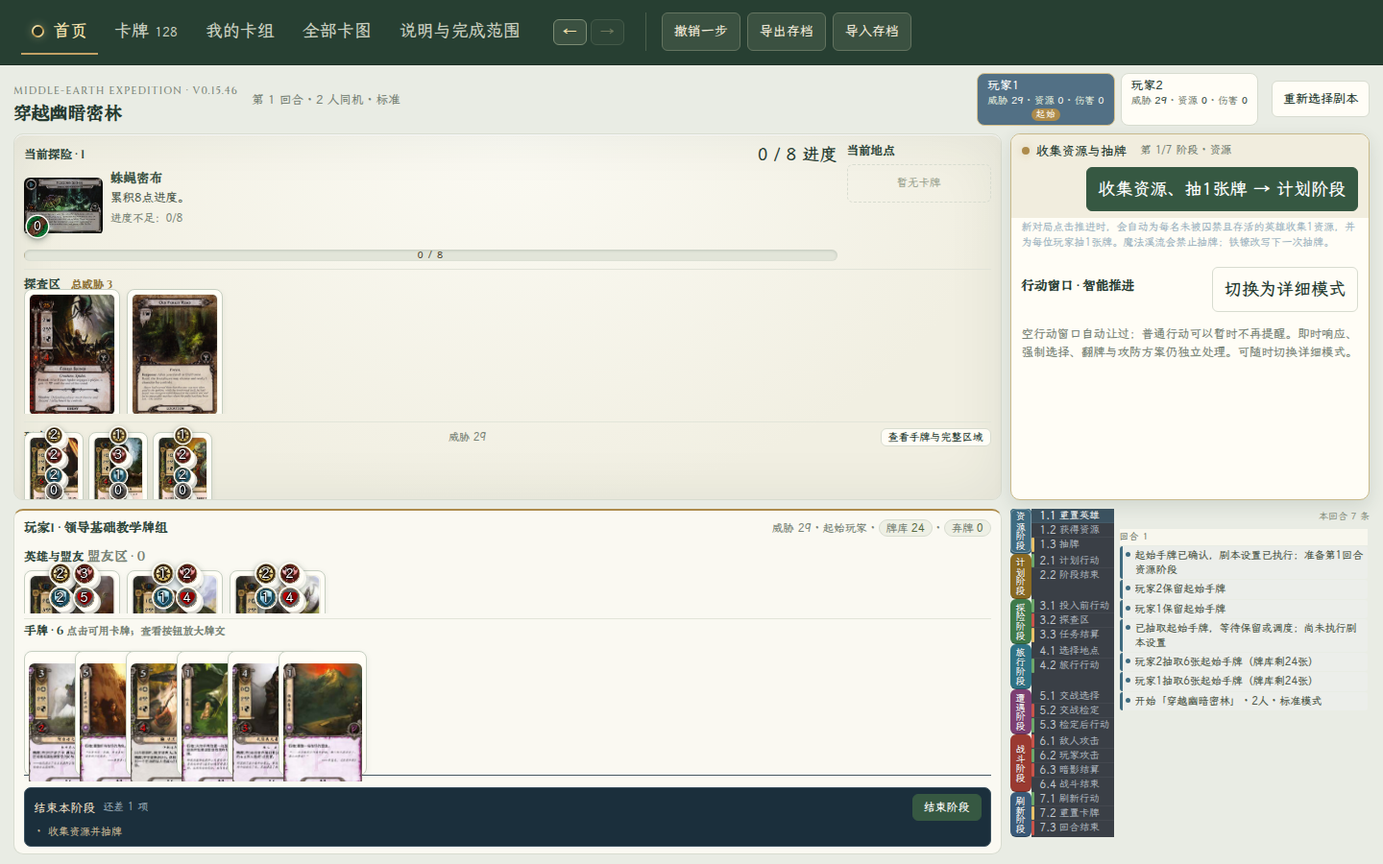
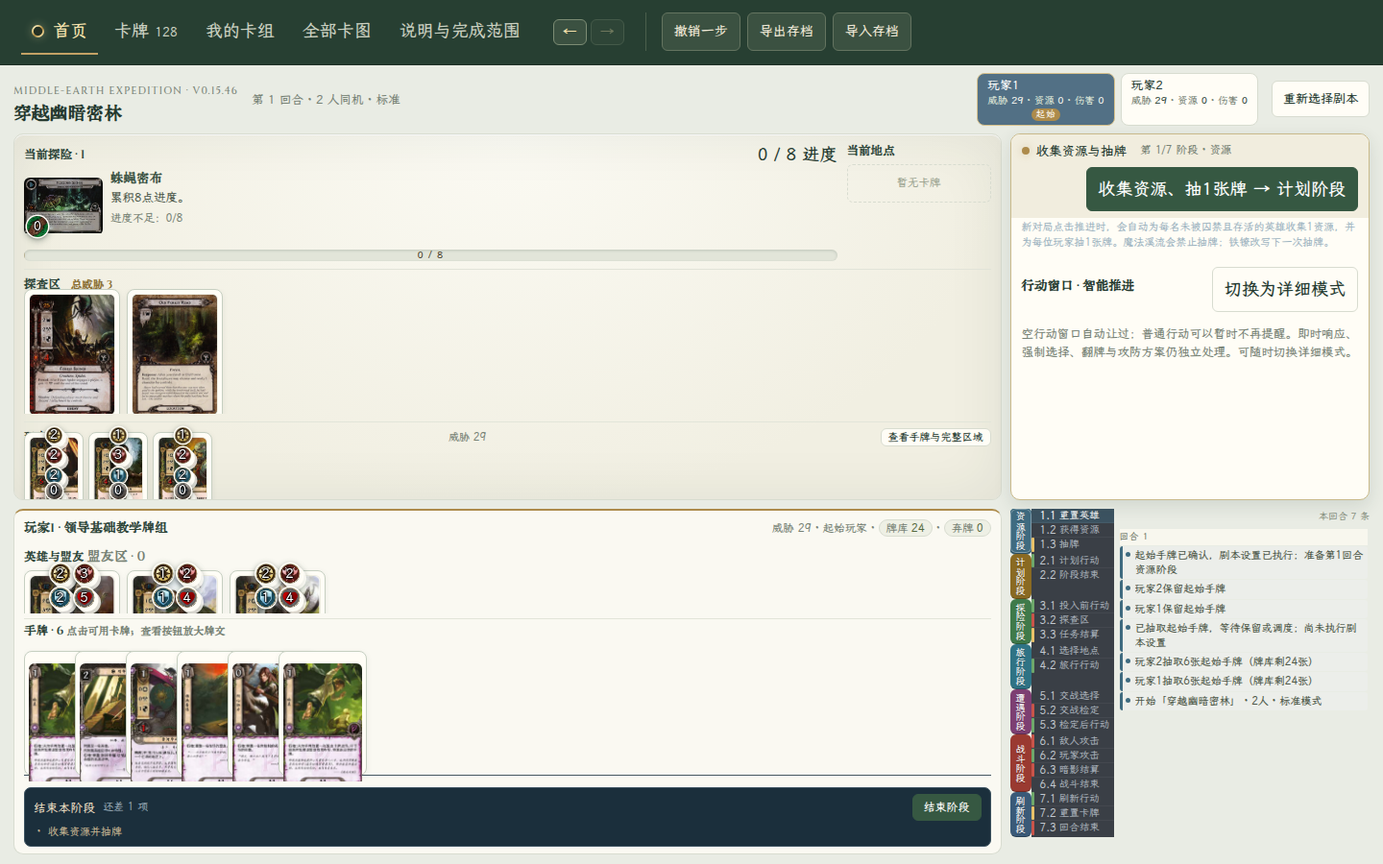
v0.15.47: 开局设置面板从右栏搬到角色卡下方，按深色卡区重绘并让出高度

Changed region(s): [[0.0, 0.7467, 0.2812, 0.9022]]

diff --git a/index.html b/index.html
@@ -1260,13 +1260,42 @@ body:has(.desktop-table) .player-tabs button{min-height:40px;padding:4px 10px;ga
 .mat-phase{margin-top:6px;padding-top:6px;border-top:1px solid #455762;
  /* v0.15.46：角色卡区只有 360px（1366×768 下 336px），面板不许把「结束阶段」顶出视口。
     上限 96px（约 2 行面板内容）；min-height 保证按钮那一行不被 flex 压扁——
-    压扁后 .player-mat 的 overflow:hidden 会把按钮下半截直接裁掉。 */
+    压扁后 .player-mat 的 overflow:hidden 会把按钮下半截直接裁掉。
+    v0.15.47：开局阶段（手牌确认）没有结束阶段按钮，内容必须完整可见，故解除三项限制。 */
  flex:0 0 auto;max-height:96px;overflow:auto;scrollbar-width:thin;
  min-height:76px;display:flex;flex-direction:column;gap:2px}
+.mat-phase:has(>.opening-panel){max-height:none;overflow:visible;min-height:0}
+/* 开局阶段把英雄区与手牌的高度让给「起始手牌」面板：此时桌面上还没有可查看的角色，
+   而确认手牌是唯一要事。手牌区只留一条可横向滚动的窄带，面板完整露出。
+   注意手牌行原本是 flex:0 0 auto + min-height:104px，不在这里显式改 flex 与 min-height
+   就仍会撑满 170px，把面板顶出角色区。 */
+.player-mat:has(.mat-phase>.opening-panel)>.own-characters{flex:0 0 auto;min-height:0;max-height:0;overflow:hidden;padding:0}
+.player-mat:has(.mat-phase>.opening-panel)>.hand-zone{flex:0 0 auto;min-height:0;padding-top:0}
+.player-mat:has(.mat-phase>.opening-panel)>.hand-zone>.table-card-row{flex:0 0 62px;min-height:0;padding-top:6px;padding-bottom:2px}
+.player-mat:has(.mat-phase>.opening-panel) .hand-card{width:56px;flex:0 0 56px}
+.player-mat:has(.mat-phase>.opening-panel) .hand-card+.hand-card{margin-left:-34px}
+.player-mat:has(.mat-phase>.opening-panel) .hand-card .card-face img{height:100%;object-fit:cover}
 .mat-phase>.panel{flex:0 1 auto;min-height:0;overflow:auto;
  border:0;background:transparent;padding:0;margin:0}
 .mat-phase>.panel>h2,.mat-phase .panel-title h2{font-size:13px;color:#e6dcc2;margin:0 0 3px}
 .mat-phase p{font-size:12px;color:#cfdadf;margin:3px 0;line-height:1.45}
+/* v0.15.47：开局步骤（opening-panel）从右栏搬到角色卡下方。它本身是浅色纸感底，
+   直接放进来会在深色卡区里突兀、且浅色文字不可读，所以按卡区的深底重绘一遍。
+   开局面板没有「结束阶段」按钮，不受 96px 上限约束——那里要放得下每位玩家一行。 */
+.mat-phase>.opening-panel{
+ background:#2b3d33;border:1px solid #c6ac74;border-radius:7px;padding:7px 9px;
+ max-height:none;overflow:visible}
+.mat-phase>.opening-panel>p.small{font-size:11.5px;color:#b9c9bd;margin:2px 0 6px}
+.mat-phase>.opening-panel .badge{background:#3a3220;border-color:#c6ac74;color:#e8dcc0}
+.mat-phase>.opening-panel .opening-choices{
+ grid-template-columns:repeat(auto-fit,minmax(220px,1fr));gap:6px;margin:6px 0 8px}
+.mat-phase>.opening-panel .opening-choices>div{
+ border:1px solid #4a5e6c;background:#1d2d38;border-radius:5px;padding:5px 8px;gap:6px}
+.mat-phase>.opening-panel .opening-choices>div>b{font-size:12px;color:#e8dcc0}
+.mat-phase>.opening-panel .opening-choices>div>span{font-size:11px;color:#a9b8c2}
+.mat-phase>.opening-panel .opening-choices button{font-size:11.5px;padding:3px 9px;min-height:24px}
+.mat-phase>.opening-panel .actions{margin-top:0}
+.mat-phase>.opening-panel .actions button{font-size:12px;min-height:28px}
 .mat-phase .small.muted{color:#a9b8c2}
 .mat-phase .actions{margin-top:4px;display:flex;flex-wrap:wrap;gap:6px}
 .mat-phase .notice{background:#2b3d33;border-left-color:#c6ac74;color:#dfe8dc;padding:4px 8px;font-size:11.5px}
@@ -9790,7 +9819,7 @@ const WindowUI=(()=>{
 </script><script src="phase-log.js"></script><script>
 /* Tabletop view: UI drafts never pay, exhaust, reveal, or bypass phase validation. */
 /* 界面版本徽标唯一来源：须与 CHANGELOG.md 最新条目标题一致（planning-dom-tests 有校验）。 */
-const APP_VERSION='v0.15.46';
+const APP_VERSION='v0.15.47';
 const DesktopUI=(()=>{
  const E=ScenarioEngine,R=E.planning,Q=E.questing,C=E.combat,esc=x=>String(x??'').replace(/[&<>"']/g,c=>({'&':'&amp;','<':'&lt;','>':'&gt;','"':'&quot;',"'":'&#39;'}[c]));
  let combatDraft={key:'',target:null,ids:[]},draftState=null;
@@ -9957,7 +9986,7 @@ const DesktopUI=(()=>{
   /* 玩家状态条：BGA 式汇总每位玩家的威胁／资源／伤害，点按即切换查看（复用 view 动作）。 */
  const tabStats=o=>{const res=o.heroStates?o.heroStates.reduce((n,h)=>n+h.resources,0):0,dmg=o.heroStates?o.heroStates.reduce((n,h)=>n+(h.damage||0),0):0;
   return `<span class="tab-stats">威胁 <b>${o.threat}</b> · 资源 <b>${res}</b> · 伤害 <b>${dmg}</b></span>${s.first===o.id?'<span class="first-mark">起始</span>':''}${o.eliminated?'<span class="elim-mark">淘汰</span>':''}`;};
- return `<div class="desktop-table"><div class="expedition-title"><div><span class="eyebrow">MIDDLE-EARTH EXPEDITION · ${APP_VERSION}</span><h1>${esc(s.session&&s.session.name||sc.name)}</h1></div><span>${s.session&&s.session.name?esc(sc.name)+' · ':''}第 ${s.round} 回合 · ${s.players.length} 人同机${s.session&&s.session.difficulty?' · '+({easy:'简单',normal:'标准',nightmare:'噩梦'}[s.session.difficulty]||''):''}</span><div class="player-tabs" role="group" aria-label="查看玩家">${s.players.map(o=>`<button data-action="desktop" data-desktop="view" data-player="${o.id}" class="${o.id===p.id?'active':''}" aria-pressed="${o.id===p.id}"><b class="tab-name">${esc(o.name)}</b>${tabStats(o)}</button>`).join('')}</div>${b('重新选择剧本','reset')}</div><div class="tabletop-layout"><div class="tabletop-main"><div class="operation-dock" role="region" aria-label="当前操作"><div class="operation-title"><span class="operation-indicator"></span><strong>${esc(prompt(s,m))}</strong><div class="operation-chips">${status(s)?.chips||''}</div><span class="small">第 ${s.phase+1}/7 阶段 · ${E.phases[s.phase]}</span>${next(s)}</div><p class="small phase-hint">${esc(phaseHint())}</p><div class="operation-content">${scorePanel(s)}${PlayerUI.openingPanel(s)}${setupPanel(s)}${s.pending.length?pending():''}${phasePanel(s,p.id,m)}${WindowUI.panel(s)}</div></div><div class="public-table"><div class="quest-location-row"><section class="table-zone quest-zone"><div class="zone-heading"><h2>当前探险 · ${esc(q.stage)}</h2><strong>${q.points?s.progress+' / '+q.points+' 进度':'特殊胜利条件'}</strong></div><div class="quest-display"><div class="quest-art-wrap">${ImageLibrary.art('enc-'+q.id,'',s.setupPending?'A':'B')}${q.points?`<div class="card-tokens quest-tokens" aria-hidden="true">${tk('progress',s.progress)}</div>`:''}</div><div><h3>${esc(q.name)}</h3><p>${esc(s.setupPending?q.front:q.back)}</p><span class="small muted">${esc(E.gate(s)||'满足条件后由规则自动推进')}</span></div></div>${q.points?`<div class="quest-progress" role="progressbar" aria-label="探险进度" aria-valuemin="0" aria-valuemax="${q.points}" aria-valuenow="${s.progress}"><div class="quest-progress-fill" style="width:${Math.min(100,Math.round(s.progress/q.points*100))}%"></div><span class="quest-progress-label">${s.progress} / ${q.points}</span></div>`:''}</section>${row('当前地点',s.active?encounter(s,s.active,'active',m):'','active-zone')}</div>${row('探查区 <span class="threat-total">总威胁 '+E.threat(s)+'</span>',s.staging.map(c=>encounter(s,c,'staging',m)).join(''))}${s.objectives.length?row('剧本目标',s.objectives.map(c=>encounter(s,c,'objective',m)).join('')):''}${others}</div><section class="player-mat"><div class="zone-heading"><h2>${esc(p.name)} · ${esc(p.registeredDeck?.name||'玩家区域')}</h2><span class="own-piles">威胁 ${p.threat}${s.first===p.id?' · 起始玩家':''} · <span class="pile-chip">牌库 <b>${p.playerDeck.length}</b></span> · <span class="pile-chip">弃牌 <b>${p.playerDiscard.length}</b></span></span></div>${row('英雄与盟友 <span class="small muted">盟友区 · '+p.allies.length+'</span>',playerChars(s,p).map(c=>character(s,c,m)).join(''),'own-characters')}${p.attachments.length?row('附属',p.attachments.map(c=>{const meta=R.data(s,c),host=R.find(s,c.target),legal=R.abilitySpec(s,p.id,c.uid).legal;return `<article class="table-card"><button class="card-face" data-action="planning" data-plan="ability" data-player="${p.id}" data-uid="${c.uid}" ${legal?'':'disabled'}>${art(c.code)}</button><div class="table-card-caption"><b>${esc(meta.nameZh)}</b><span>附于 ${esc(host?.meta.nameZh||host?.meta.name||'目标已离场')}</span></div>${inspect(c.code)}</article>`;}).join('')):''}${p.engaged.length?row('交战区',p.engaged.map(c=>encounter(s,c,'engaged',m)).join('')):''}${row('手牌 · '+p.hand.length+' <span class="small muted">点击可用卡牌；查看按钮放大牌文</span>',hand,'hand-zone')}<p class="small muted">同机模式可切换查看每位玩家手牌；不提供联网私密手牌。</p><div class="mat-phase">${s.phase===1?PlanningUI.panel(s,p.id):s.phase===2?QuestUI.panel(s,p.id):s.phase===3?TravelUI.panel(s,p.id):s.phase===4?EncounterUI.panel(s,p.id):s.phase===5?CombatUI.panel(s,p.id):s.phase===6?RefreshUI.panel(s,p.id):''}${phaseDoor(s)}</div></section></div><aside class="tabletop-rail">${PhaseLog.rail(s,railOpen())}<section class="table-log" aria-label="远征日志">${PhaseLog.panel(s,logMarks(),logScope(),railOpen(),false)}</section></aside></div></div>`;
+ return `<div class="desktop-table"><div class="expedition-title"><div><span class="eyebrow">MIDDLE-EARTH EXPEDITION · ${APP_VERSION}</span><h1>${esc(s.session&&s.session.name||sc.name)}</h1></div><span>${s.session&&s.session.name?esc(sc.name)+' · ':''}第 ${s.round} 回合 · ${s.players.length} 人同机${s.session&&s.session.difficulty?' · '+({easy:'简单',normal:'标准',nightmare:'噩梦'}[s.session.difficulty]||''):''}</span><div class="player-tabs" role="group" aria-label="查看玩家">${s.players.map(o=>`<button data-action="desktop" data-desktop="view" data-player="${o.id}" class="${o.id===p.id?'active':''}" aria-pressed="${o.id===p.id}"><b class="tab-name">${esc(o.name)}</b>${tabStats(o)}</button>`).join('')}</div>${b('重新选择剧本','reset')}</div><div class="tabletop-layout"><div class="tabletop-main"><div class="operation-dock" role="region" aria-label="当前操作"><div class="operation-title"><span class="operation-indicator"></span><strong>${esc(prompt(s,m))}</strong><div class="operation-chips">${status(s)?.chips||''}</div><span class="small">第 ${s.phase+1}/7 阶段 · ${E.phases[s.phase]}</span>${next(s)}</div><p class="small phase-hint">${esc(phaseHint())}</p><div class="operation-content">${scorePanel(s)}${s.pending.length?pending():''}${phasePanel(s,p.id,m)}${WindowUI.panel(s)}</div></div><div class="public-table"><div class="quest-location-row"><section class="table-zone quest-zone"><div class="zone-heading"><h2>当前探险 · ${esc(q.stage)}</h2><strong>${q.points?s.progress+' / '+q.points+' 进度':'特殊胜利条件'}</strong></div><div class="quest-display"><div class="quest-art-wrap">${ImageLibrary.art('enc-'+q.id,'',s.setupPending?'A':'B')}${q.points?`<div class="card-tokens quest-tokens" aria-hidden="true">${tk('progress',s.progress)}</div>`:''}</div><div><h3>${esc(q.name)}</h3><p>${esc(s.setupPending?q.front:q.back)}</p><span class="small muted">${esc(E.gate(s)||'满足条件后由规则自动推进')}</span></div></div>${q.points?`<div class="quest-progress" role="progressbar" aria-label="探险进度" aria-valuemin="0" aria-valuemax="${q.points}" aria-valuenow="${s.progress}"><div class="quest-progress-fill" style="width:${Math.min(100,Math.round(s.progress/q.points*100))}%"></div><span class="quest-progress-label">${s.progress} / ${q.points}</span></div>`:''}</section>${row('当前地点',s.active?encounter(s,s.active,'active',m):'','active-zone')}</div>${row('探查区 <span class="threat-total">总威胁 '+E.threat(s)+'</span>',s.staging.map(c=>encounter(s,c,'staging',m)).join(''))}${s.objectives.length?row('剧本目标',s.objectives.map(c=>encounter(s,c,'objective',m)).join('')):''}${others}</div><section class="player-mat"><div class="zone-heading"><h2>${esc(p.name)} · ${esc(p.registeredDeck?.name||'玩家区域')}</h2><span class="own-piles">威胁 ${p.threat}${s.first===p.id?' · 起始玩家':''} · <span class="pile-chip">牌库 <b>${p.playerDeck.length}</b></span> · <span class="pile-chip">弃牌 <b>${p.playerDiscard.length}</b></span></span></div>${row('英雄与盟友 <span class="small muted">盟友区 · '+p.allies.length+'</span>',playerChars(s,p).map(c=>character(s,c,m)).join(''),'own-characters')}${p.attachments.length?row('附属',p.attachments.map(c=>{const meta=R.data(s,c),host=R.find(s,c.target),legal=R.abilitySpec(s,p.id,c.uid).legal;return `<article class="table-card"><button class="card-face" data-action="planning" data-plan="ability" data-player="${p.id}" data-uid="${c.uid}" ${legal?'':'disabled'}>${art(c.code)}</button><div class="table-card-caption"><b>${esc(meta.nameZh)}</b><span>附于 ${esc(host?.meta.nameZh||host?.meta.name||'目标已离场')}</span></div>${inspect(c.code)}</article>`;}).join('')):''}${p.engaged.length?row('交战区',p.engaged.map(c=>encounter(s,c,'engaged',m)).join('')):''}${row('手牌 · '+p.hand.length+' <span class="small muted">点击可用卡牌；查看按钮放大牌文</span>',hand,'hand-zone')}<p class="small muted">同机模式可切换查看每位玩家手牌；不提供联网私密手牌。</p><div class="mat-phase">${PlayerUI.openingPanel(s)}${setupPanel(s)}${s.phase===1?PlanningUI.panel(s,p.id):s.phase===2?QuestUI.panel(s,p.id):s.phase===3?TravelUI.panel(s,p.id):s.phase===4?EncounterUI.panel(s,p.id):s.phase===5?CombatUI.panel(s,p.id):s.phase===6?RefreshUI.panel(s,p.id):''}${phaseDoor(s)}</div></section></div><aside class="tabletop-rail">${PhaseLog.rail(s,railOpen())}<section class="table-log" aria-label="远征日志">${PhaseLog.panel(s,logMarks(),logScope(),railOpen(),false)}</section></aside></div></div>`;
  }
  function handle(el){const k=el.dataset.desktop,uid=+el.dataset.uid,pid=+el.dataset.player,m=mode(state,handView),d=draft(state,m);
   if(k==='view'){handView=pid;render();return;}if(k==='reset'){if(confirm('结束当前桌面并重新选择剧本？建议先导出存档。'))mutate(()=>state=null);return;}

diff --git a/desktop-ui.js b/desktop-ui.js
@@ -1,6 +1,6 @@
 /* Tabletop view: UI drafts never pay, exhaust, reveal, or bypass phase validation. */
 /* 界面版本徽标唯一来源：须与 CHANGELOG.md 最新条目标题一致（planning-dom-tests 有校验）。 */
-const APP_VERSION='v0.15.46';
+const APP_VERSION='v0.15.47';
 const DesktopUI=(()=>{
  const E=ScenarioEngine,R=E.planning,Q=E.questing,C=E.combat,esc=x=>String(x??'').replace(/[&<>"']/g,c=>({'&':'&amp;','<':'&lt;','>':'&gt;','"':'&quot;',"'":'&#39;'}[c]));
  let combatDraft={key:'',target:null,ids:[]},draftState=null;
@@ -167,7 +167,7 @@ const DesktopUI=(()=>{
   /* 玩家状态条：BGA 式汇总每位玩家的威胁／资源／伤害，点按即切换查看（复用 view 动作）。 */
  const tabStats=o=>{const res=o.heroStates?o.heroStates.reduce((n,h)=>n+h.resources,0):0,dmg=o.heroStates?o.heroStates.reduce((n,h)=>n+(h.damage||0),0):0;
   return `<span class="tab-stats">威胁 <b>${o.threat}</b> · 资源 <b>${res}</b> · 伤害 <b>${dmg}</b></span>${s.first===o.id?'<span class="first-mark">起始</span>':''}${o.eliminated?'<span class="elim-mark">淘汰</span>':''}`;};
- return `<div class="desktop-table"><div class="expedition-title"><div><span class="eyebrow">MIDDLE-EARTH EXPEDITION · ${APP_VERSION}</span><h1>${esc(s.session&&s.session.name||sc.name)}</h1></div><span>${s.session&&s.session.name?esc(sc.name)+' · ':''}第 ${s.round} 回合 · ${s.players.length} 人同机${s.session&&s.session.difficulty?' · '+({easy:'简单',normal:'标准',nightmare:'噩梦'}[s.session.difficulty]||''):''}</span><div class="player-tabs" role="group" aria-label="查看玩家">${s.players.map(o=>`<button data-action="desktop" data-desktop="view" data-player="${o.id}" class="${o.id===p.id?'active':''}" aria-pressed="${o.id===p.id}"><b class="tab-name">${esc(o.name)}</b>${tabStats(o)}</button>`).join('')}</div>${b('重新选择剧本','reset')}</div><div class="tabletop-layout"><div class="tabletop-main"><div class="operation-dock" role="region" aria-label="当前操作"><div class="operation-title"><span class="operation-indicator"></span><strong>${esc(prompt(s,m))}</strong><div class="operation-chips">${status(s)?.chips||''}</div><span class="small">第 ${s.phase+1}/7 阶段 · ${E.phases[s.phase]}</span>${next(s)}</div><p class="small phase-hint">${esc(phaseHint())}</p><div class="operation-content">${scorePanel(s)}${PlayerUI.openingPanel(s)}${setupPanel(s)}${s.pending.length?pending():''}${phasePanel(s,p.id,m)}${WindowUI.panel(s)}</div></div><div class="public-table"><div class="quest-location-row"><section class="table-zone quest-zone"><div class="zone-heading"><h2>当前探险 · ${esc(q.stage)}</h2><strong>${q.points?s.progress+' / '+q.points+' 进度':'特殊胜利条件'}</strong></div><div class="quest-display"><div class="quest-art-wrap">${ImageLibrary.art('enc-'+q.id,'',s.setupPending?'A':'B')}${q.points?`<div class="card-tokens quest-tokens" aria-hidden="true">${tk('progress',s.progress)}</div>`:''}</div><div><h3>${esc(q.name)}</h3><p>${esc(s.setupPending?q.front:q.back)}</p><span class="small muted">${esc(E.gate(s)||'满足条件后由规则自动推进')}</span></div></div>${q.points?`<div class="quest-progress" role="progressbar" aria-label="探险进度" aria-valuemin="0" aria-valuemax="${q.points}" aria-valuenow="${s.progress}"><div class="quest-progress-fill" style="width:${Math.min(100,Math.round(s.progress/q.points*100))}%"></div><span class="quest-progress-label">${s.progress} / ${q.points}</span></div>`:''}</section>${row('当前地点',s.active?encounter(s,s.active,'active',m):'','active-zone')}</div>${row('探查区 <span class="threat-total">总威胁 '+E.threat(s)+'</span>',s.staging.map(c=>encounter(s,c,'staging',m)).join(''))}${s.objectives.length?row('剧本目标',s.objectives.map(c=>encounter(s,c,'objective',m)).join('')):''}${others}</div><section class="player-mat"><div class="zone-heading"><h2>${esc(p.name)} · ${esc(p.registeredDeck?.name||'玩家区域')}</h2><span class="own-piles">威胁 ${p.threat}${s.first===p.id?' · 起始玩家':''} · <span class="pile-chip">牌库 <b>${p.playerDeck.length}</b></span> · <span class="pile-chip">弃牌 <b>${p.playerDiscard.length}</b></span></span></div>${row('英雄与盟友 <span class="small muted">盟友区 · '+p.allies.length+'</span>',playerChars(s,p).map(c=>character(s,c,m)).join(''),'own-characters')}${p.attachments.length?row('附属',p.attachments.map(c=>{const meta=R.data(s,c),host=R.find(s,c.target),legal=R.abilitySpec(s,p.id,c.uid).legal;return `<article class="table-card"><button class="card-face" data-action="planning" data-plan="ability" data-player="${p.id}" data-uid="${c.uid}" ${legal?'':'disabled'}>${art(c.code)}</button><div class="table-card-caption"><b>${esc(meta.nameZh)}</b><span>附于 ${esc(host?.meta.nameZh||host?.meta.name||'目标已离场')}</span></div>${inspect(c.code)}</article>`;}).join('')):''}${p.engaged.length?row('交战区',p.engaged.map(c=>encounter(s,c,'engaged',m)).join('')):''}${row('手牌 · '+p.hand.length+' <span class="small muted">点击可用卡牌；查看按钮放大牌文</span>',hand,'hand-zone')}<p class="small muted">同机模式可切换查看每位玩家手牌；不提供联网私密手牌。</p><div class="mat-phase">${s.phase===1?PlanningUI.panel(s,p.id):s.phase===2?QuestUI.panel(s,p.id):s.phase===3?TravelUI.panel(s,p.id):s.phase===4?EncounterUI.panel(s,p.id):s.phase===5?CombatUI.panel(s,p.id):s.phase===6?RefreshUI.panel(s,p.id):''}${phaseDoor(s)}</div></section></div><aside class="tabletop-rail">${PhaseLog.rail(s,railOpen())}<section class="table-log" aria-label="远征日志">${PhaseLog.panel(s,logMarks(),logScope(),railOpen(),false)}</section></aside></div></div>`;
+ return `<div class="desktop-table"><div class="expedition-title"><div><span class="eyebrow">MIDDLE-EARTH EXPEDITION · ${APP_VERSION}</span><h1>${esc(s.session&&s.session.name||sc.name)}</h1></div><span>${s.session&&s.session.name?esc(sc.name)+' · ':''}第 ${s.round} 回合 · ${s.players.length} 人同机${s.session&&s.session.difficulty?' · '+({easy:'简单',normal:'标准',nightmare:'噩梦'}[s.session.difficulty]||''):''}</span><div class="player-tabs" role="group" aria-label="查看玩家">${s.players.map(o=>`<button data-action="desktop" data-desktop="view" data-player="${o.id}" class="${o.id===p.id?'active':''}" aria-pressed="${o.id===p.id}"><b class="tab-name">${esc(o.name)}</b>${tabStats(o)}</button>`).join('')}</div>${b('重新选择剧本','reset')}</div><div class="tabletop-layout"><div class="tabletop-main"><div class="operation-dock" role="region" aria-label="当前操作"><div class="operation-title"><span class="operation-indicator"></span><strong>${esc(prompt(s,m))}</strong><div class="operation-chips">${status(s)?.chips||''}</div><span class="small">第 ${s.phase+1}/7 阶段 · ${E.phases[s.phase]}</span>${next(s)}</div><p class="small phase-hint">${esc(phaseHint())}</p><div class="operation-content">${scorePanel(s)}${s.pending.length?pending():''}${phasePanel(s,p.id,m)}${WindowUI.panel(s)}</div></div><div class="public-table"><div class="quest-location-row"><section class="table-zone quest-zone"><div class="zone-heading"><h2>当前探险 · ${esc(q.stage)}</h2><strong>${q.points?s.progress+' / '+q.points+' 进度':'特殊胜利条件'}</strong></div><div class="quest-display"><div class="quest-art-wrap">${ImageLibrary.art('enc-'+q.id,'',s.setupPending?'A':'B')}${q.points?`<div class="card-tokens quest-tokens" aria-hidden="true">${tk('progress',s.progress)}</div>`:''}</div><div><h3>${esc(q.name)}</h3><p>${esc(s.setupPending?q.front:q.back)}</p><span class="small muted">${esc(E.gate(s)||'满足条件后由规则自动推进')}</span></div></div>${q.points?`<div class="quest-progress" role="progressbar" aria-label="探险进度" aria-valuemin="0" aria-valuemax="${q.points}" aria-valuenow="${s.progress}"><div class="quest-progress-fill" style="width:${Math.min(100,Math.round(s.progress/q.points*100))}%"></div><span class="quest-progress-label">${s.progress} / ${q.points}</span></div>`:''}</section>${row('当前地点',s.active?encounter(s,s.active,'active',m):'','active-zone')}</div>${row('探查区 <span class="threat-total">总威胁 '+E.threat(s)+'</span>',s.staging.map(c=>encounter(s,c,'staging',m)).join(''))}${s.objectives.length?row('剧本目标',s.objectives.map(c=>encounter(s,c,'objective',m)).join('')):''}${others}</div><section class="player-mat"><div class="zone-heading"><h2>${esc(p.name)} · ${esc(p.registeredDeck?.name||'玩家区域')}</h2><span class="own-piles">威胁 ${p.threat}${s.first===p.id?' · 起始玩家':''} · <span class="pile-chip">牌库 <b>${p.playerDeck.length}</b></span> · <span class="pile-chip">弃牌 <b>${p.playerDiscard.length}</b></span></span></div>${row('英雄与盟友 <span class="small muted">盟友区 · '+p.allies.length+'</span>',playerChars(s,p).map(c=>character(s,c,m)).join(''),'own-characters')}${p.attachments.length?row('附属',p.attachments.map(c=>{const meta=R.data(s,c),host=R.find(s,c.target),legal=R.abilitySpec(s,p.id,c.uid).legal;return `<article class="table-card"><button class="card-face" data-action="planning" data-plan="ability" data-player="${p.id}" data-uid="${c.uid}" ${legal?'':'disabled'}>${art(c.code)}</button><div class="table-card-caption"><b>${esc(meta.nameZh)}</b><span>附于 ${esc(host?.meta.nameZh||host?.meta.name||'目标已离场')}</span></div>${inspect(c.code)}</article>`;}).join('')):''}${p.engaged.length?row('交战区',p.engaged.map(c=>encounter(s,c,'engaged',m)).join('')):''}${row('手牌 · '+p.hand.length+' <span class="small muted">点击可用卡牌；查看按钮放大牌文</span>',hand,'hand-zone')}<p class="small muted">同机模式可切换查看每位玩家手牌；不提供联网私密手牌。</p><div class="mat-phase">${PlayerUI.openingPanel(s)}${setupPanel(s)}${s.phase===1?PlanningUI.panel(s,p.id):s.phase===2?QuestUI.panel(s,p.id):s.phase===3?TravelUI.panel(s,p.id):s.phase===4?EncounterUI.panel(s,p.id):s.phase===5?CombatUI.panel(s,p.id):s.phase===6?RefreshUI.panel(s,p.id):''}${phaseDoor(s)}</div></section></div><aside class="tabletop-rail">${PhaseLog.rail(s,railOpen())}<section class="table-log" aria-label="远征日志">${PhaseLog.panel(s,logMarks(),logScope(),railOpen(),false)}</section></aside></div></div>`;
  }
  function handle(el){const k=el.dataset.desktop,uid=+el.dataset.uid,pid=+el.dataset.player,m=mode(state,handView),d=draft(state,m);
   if(k==='view'){handView=pid;render();return;}if(k==='reset'){if(confirm('结束当前桌面并重新选择剧本？建议先导出存档。'))mutate(()=>state=null);return;}

diff --git a/style.css b/style.css
@@ -1258,13 +1258,42 @@ body:has(.desktop-table) .player-tabs button{min-height:40px;padding:4px 10px;ga
 .mat-phase{margin-top:6px;padding-top:6px;border-top:1px solid #455762;
  /* v0.15.46：角色卡区只有 360px（1366×768 下 336px），面板不许把「结束阶段」顶出视口。
     上限 96px（约 2 行面板内容）；min-height 保证按钮那一行不被 flex 压扁——
-    压扁后 .player-mat 的 overflow:hidden 会把按钮下半截直接裁掉。 */
+    压扁后 .player-mat 的 overflow:hidden 会把按钮下半截直接裁掉。
+    v0.15.47：开局阶段（手牌确认）没有结束阶段按钮，内容必须完整可见，故解除三项限制。 */
  flex:0 0 auto;max-height:96px;overflow:auto;scrollbar-width:thin;
  min-height:76px;display:flex;flex-direction:column;gap:2px}
+.mat-phase:has(>.opening-panel){max-height:none;overflow:visible;min-height:0}
+/* 开局阶段把英雄区与手牌的高度让给「起始手牌」面板：此时桌面上还没有可查看的角色，
+   而确认手牌是唯一要事。手牌区只留一条可横向滚动的窄带，面板完整露出。
+   注意手牌行原本是 flex:0 0 auto + min-height:104px，不在这里显式改 flex 与 min-height
+   就仍会撑满 170px，把面板顶出角色区。 */
+.player-mat:has(.mat-phase>.opening-panel)>.own-characters{flex:0 0 auto;min-height:0;max-height:0;overflow:hidden;padding:0}
+.player-mat:has(.mat-phase>.opening-panel)>.hand-zone{flex:0 0 auto;min-height:0;padding-top:0}
+.player-mat:has(.mat-phase>.opening-panel)>.hand-zone>.table-card-row{flex:0 0 62px;min-height:0;padding-top:6px;padding-bottom:2px}
+.player-mat:has(.mat-phase>.opening-panel) .hand-card{width:56px;flex:0 0 56px}
+.player-mat:has(.mat-phase>.opening-panel) .hand-card+.hand-card{margin-left:-34px}
+.player-mat:has(.mat-phase>.opening-panel) .hand-card .card-face img{height:100%;object-fit:cover}
 .mat-phase>.panel{flex:0 1 auto;min-height:0;overflow:auto;
  border:0;background:transparent;padding:0;margin:0}
 .mat-phase>.panel>h2,.mat-phase .panel-title h2{font-size:13px;color:#e6dcc2;margin:0 0 3px}
 .mat-phase p{font-size:12px;color:#cfdadf;margin:3px 0;line-height:1.45}
+/* v0.15.47：开局步骤（opening-panel）从右栏搬到角色卡下方。它本身是浅色纸感底，
+   直接放进来会在深色卡区里突兀、且浅色文字不可读，所以按卡区的深底重绘一遍。
+   开局面板没有「结束阶段」按钮，不受 96px 上限约束——那里要放得下每位玩家一行。 */
+.mat-phase>.opening-panel{
+ background:#2b3d33;border:1px solid #c6ac74;border-radius:7px;padding:7px 9px;
+ max-height:none;overflow:visible}
+.mat-phase>.opening-panel>p.small{font-size:11.5px;color:#b9c9bd;margin:2px 0 6px}
+.mat-phase>.opening-panel .badge{background:#3a3220;border-color:#c6ac74;color:#e8dcc0}
+.mat-phase>.opening-panel .opening-choices{
+ grid-template-columns:repeat(auto-fit,minmax(220px,1fr));gap:6px;margin:6px 0 8px}
+.mat-phase>.opening-panel .opening-choices>div{
+ border:1px solid #4a5e6c;background:#1d2d38;border-radius:5px;padding:5px 8px;gap:6px}
+.mat-phase>.opening-panel .opening-choices>div>b{font-size:12px;color:#e8dcc0}
+.mat-phase>.opening-panel .opening-choices>div>span{font-size:11px;color:#a9b8c2}
+.mat-phase>.opening-panel .opening-choices button{font-size:11.5px;padding:3px 9px;min-height:24px}
+.mat-phase>.opening-panel .actions{margin-top:0}
+.mat-phase>.opening-panel .actions button{font-size:12px;min-height:28px}
 .mat-phase .small.muted{color:#a9b8c2}
 .mat-phase .actions{margin-top:4px;display:flex;flex-wrap:wrap;gap:6px}
 .mat-phase .notice{background:#2b3d33;border-left-color:#c6ac74;color:#dfe8dc;padding:4px 8px;font-size:11.5px}

diff --git a/CHANGELOG.md b/CHANGELOG.md
@@ -1,3 +1,10 @@
+# v0.15.47 · 开局设置搬到角色卡下方（2026-10-24）
+
+- **「开局步骤 · 起始手牌」从右栏移到角色卡下方**：它原来渲染在 `.operation-content` 里，把右侧 320px 的窄条占满，而角色卡下方那块 `.mat-phase` 在开局阶段是空的。现在 `openingPanel` 与 `setupPanel` 一起落到 `.mat-phase`，与阶段面板同一位置——开局设置本来就是「第 1 阶段之前的那一步」，位置一致更符合直觉。
+- **开局面板按深色卡区重绘**：它本身是浅色纸感底（`#f8f2df`），直接放进深色 `.player-mat` 会突兀且文字不可读。改为深绿底 + 金色描边（`#2b3d33` / `#c6ac74`），玩家行卡片改成深底，标题与说明转成暖白。
+- **开局阶段让出高度**：`.mat-phase` 原本有 `max-height:96px` + `min-height:76px`（为保住「结束阶段」按钮不被裁）。开局面板没有那个按钮，但内容有 174px，三条角色区规则一起放开：`.mat-phase:has(>.opening-panel)` 解除高度限制；英雄区 `max-height:0`；手牌行改 `flex:0 0 62px`（原来是 `flex:0 0 auto` + `min-height:104px`，不改 flex 与 min-height 光是改 min-height 没用，仍会撑满 170px）。
+- 验收：14 个套件全绿；check-layout 16/16、check-taskbar 23/23、check-onescreen 五区可见、check-contrast 0 低对比、check-score 19/19、check-card-hover 22/22、check-setup-reveal 13/13、check-deck-share 16/16、check-history 无脚本错误。三档分辨率实测面板底边均在 `.player-mat` 内（1440×900: 883/890，1366×768: 753/758，1920×1080: 1063/1070）。
+
 # v0.15.46 · 阶段智能推进：一键结束阶段 + 面板搬到角色卡下方（2026-10-24）
 
 - **阶段面板去掉重复出口**：探险 / 旅行 / 遭遇 / 战斗 / 刷新五个面板里那排「回退一步（整桌）」按钮与长段说明全部删除。撤销统一走顶栏「撤销一步」与日志行内回退，面板底部只留一个「结束阶段」出口。
